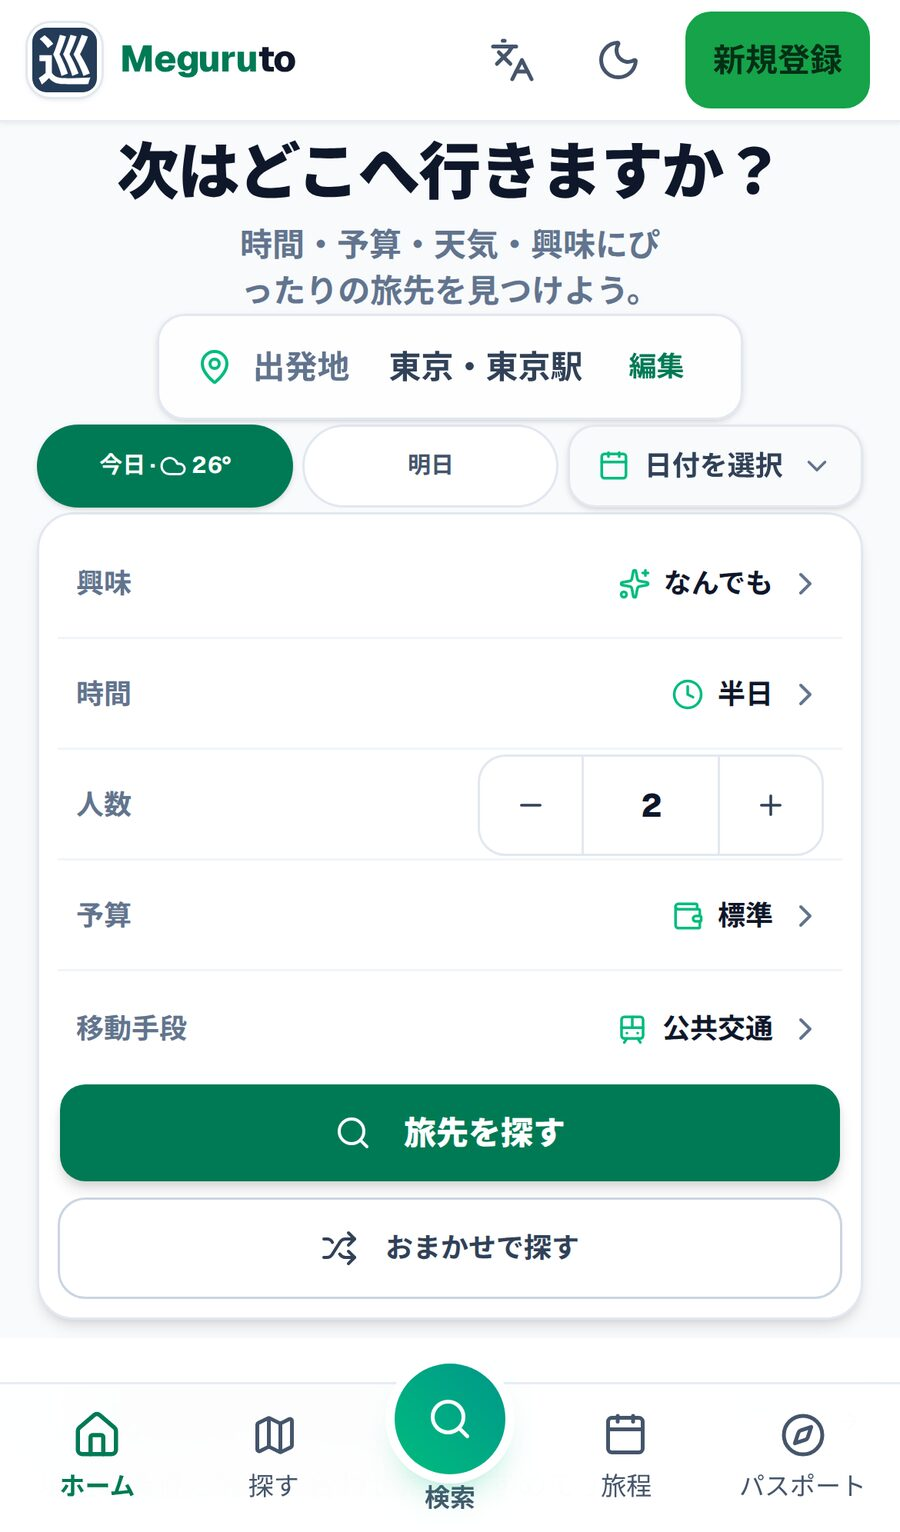
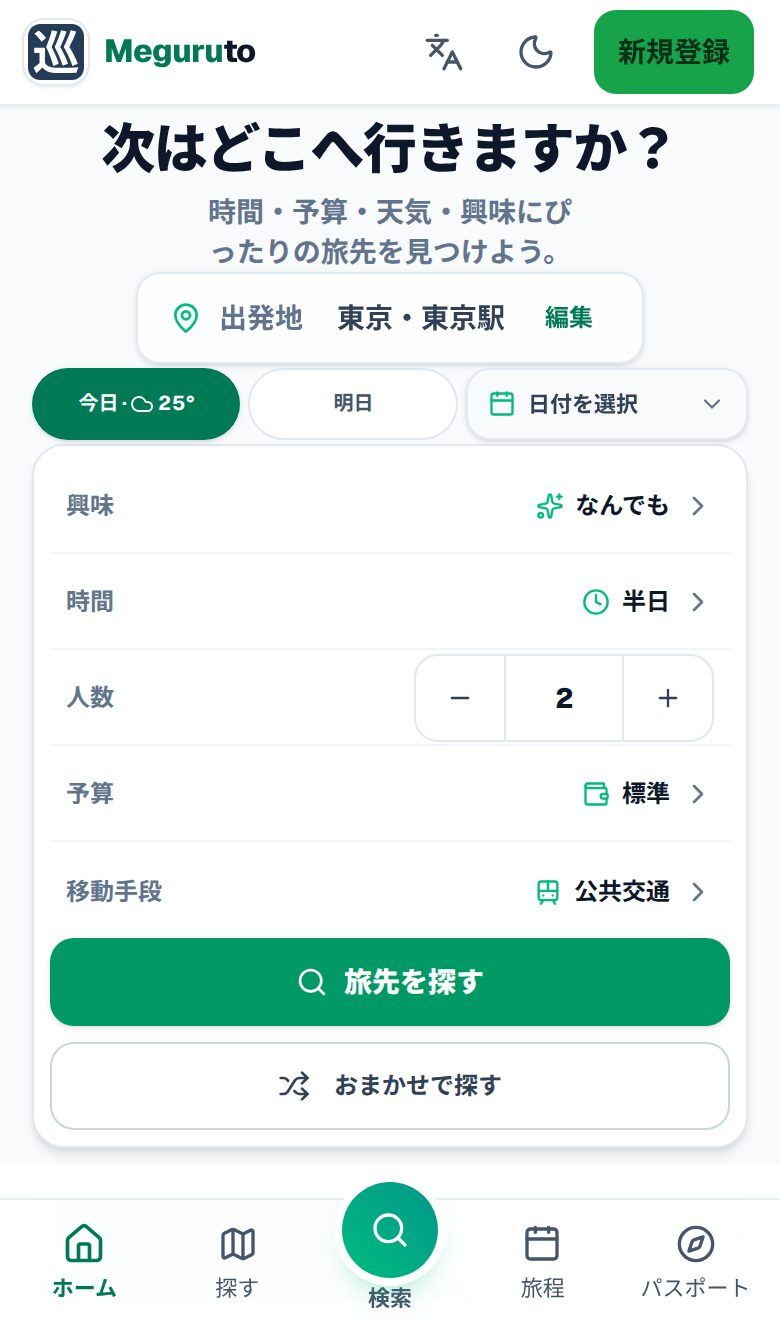
fix(ui): open home spacing and align primary CTA with brand green

diff --git a/src/features/home/components/HomePlanner.tsx b/src/features/home/components/HomePlanner.tsx
@@ -739,14 +739,14 @@ export const HomePlanner: React.FC<HomePlannerProps> = ({
 
         {/* Row 2: Action Buttons Row (Centered directly beneath filter bar) */}
         <div className="mt-4 flex items-center justify-center gap-3 w-full">
-          <Button
-            size="lg"
-            className="h-11 px-8 text-sm font-extrabold rounded-xl bg-emerald-700 hover:bg-emerald-800 text-white shadow-md transition-all flex items-center gap-2"
+          <button
+            type="button"
+            className="inline-flex h-11 items-center justify-center gap-2 rounded-xl bg-emerald-600 px-8 text-sm font-extrabold text-white shadow-sm transition-colors hover:bg-emerald-700 focus-visible:outline-2 focus-visible:outline-offset-2 focus-visible:outline-emerald-600 dark:bg-emerald-600 dark:text-white dark:hover:bg-emerald-700"
             onClick={onApplyMatches}
           >
             <Search className="w-4 h-4" />
             <span>{primaryButtonLabel}</span>
-          </Button>
+          </button>
 
           <Button
             type="button"
@@ -762,7 +762,7 @@ export const HomePlanner: React.FC<HomePlannerProps> = ({
       </div>
 
       <div className="space-y-2 lg:hidden">
-        <div className="home-planner-card rounded-2xl border border-slate-200 bg-white p-2.5 shadow-md dark:border-[hsl(var(--border-subtle))] dark:bg-[hsl(var(--surface-card))]">
+        <div className="home-planner-card rounded-2xl border border-slate-200 bg-white p-3 shadow-md dark:border-[hsl(var(--border-subtle))] dark:bg-[hsl(var(--surface-card))]">
           <div className="home-planner-rows divide-y divide-slate-100 dark:divide-slate-800">
             {/* Vibe row — always clickable */}
             <button
@@ -867,16 +867,16 @@ export const HomePlanner: React.FC<HomePlannerProps> = ({
               </button>
             ))}
           </div>
-          <div className="home-planner-actions mt-2 flex flex-col gap-1.5">
-            <Button
-              size="lg"
+          <div className="home-planner-actions mt-3 flex flex-col gap-2">
+            <button
+              type="button"
               data-testid="home-planner-cta"
-              className="home-planner-cta h-12 w-full rounded-xl bg-emerald-700 text-sm font-extrabold text-white shadow-md transition-colors hover:bg-emerald-800 dark:bg-emerald-700 dark:text-white dark:hover:bg-emerald-800"
+              className="home-planner-cta flex h-12 w-full items-center justify-center rounded-xl bg-emerald-600 text-sm font-extrabold text-white shadow-sm transition-colors hover:bg-emerald-700 focus-visible:outline-2 focus-visible:outline-offset-2 focus-visible:outline-emerald-600 dark:bg-emerald-600 dark:text-white dark:hover:bg-emerald-700"
               onClick={onApplyMatches}
             >
               <Search className="mr-2 h-4 w-4" />
               {primaryButtonLabel}
-            </Button>
+            </button>
             <Button
               type="button"
               variant="outline"

diff --git a/src/features/home/Home.tsx b/src/features/home/Home.tsx
@@ -176,7 +176,7 @@ function HomeSurface() {
       <section className="home-compact-surface relative overflow-x-clip bg-slate-50 pb-4 pt-4 sm:pb-8 sm:pt-8 lg:pb-8 lg:pt-10 dark:bg-slate-950">
         <div className="absolute inset-0 bg-grid-slate-200/50 dark:bg-grid-slate-800/50 [mask-image:linear-gradient(0deg,transparent,black)] -z-10" />
         <div className="container mx-auto max-w-6xl px-4">
-          <div className="home-compact-heading mx-auto mb-3 max-w-3xl text-center sm:mb-6">
+          <div className="home-compact-heading mx-auto mb-4 max-w-3xl text-center sm:mb-6">
             <h1
               data-testid="home-headline"
               className="text-[27px] font-extrabold leading-[1.05] tracking-tight text-slate-900 dark:text-white sm:text-4xl sm:leading-[1.08] lg:text-5xl"
@@ -192,7 +192,7 @@ function HomeSurface() {
           </div>
 
           <div
-            className="mb-2 flex flex-col items-center gap-1 sm:mb-5 sm:gap-2"
+            className="mb-3 flex flex-col items-center gap-1.5 sm:mb-5 sm:gap-2"
             data-home-origin-date-ready
           >
             <div className="flex flex-wrap items-center justify-center gap-2 text-xs font-bold text-slate-700 dark:text-slate-200">
